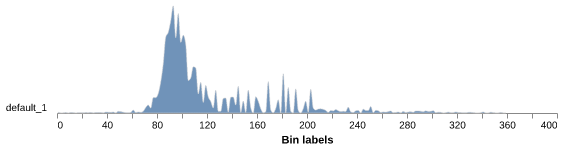
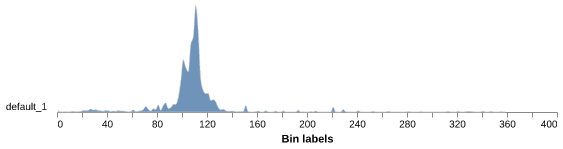
clean algo for charle

diff --git a/transformation/Transformation.py b/transformation/Transformation.py
@@ -6,7 +6,7 @@ import plantcv as pcv2
 import os
 import matplotlib.pyplot as plt
 import seaborn as sns
-
+from matplotlib import image as mplimg
 
 def parse_argument() -> str:
 
@@ -150,10 +150,11 @@ def display_transformations(image_path, dest, options):
 
     image, path, name = pcv.readimage(image_path)
     pcv.plot_image(image)
-    s = pcv.rgb2gray_hsv(rgb_img=image, channel='s')
+    s = pcv.rgb2gray_lab(rgb_img=image, channel='l')
     #pcv.plot_image(s)
 
     s_thresh = pcv.threshold.binary(gray_img=s, threshold=80, object_type='light')
+    pcv.plot_image(s_thresh)
 
 
     s_mblur = pcv.median_blur(gray_img=s_thresh, ksize=5)
@@ -164,57 +165,65 @@ def display_transformations(image_path, dest, options):
     b = pcv.rgb2gray_lab(rgb_img=image, channel='b')
     #pcv.plot_image(b)
 
+    value_threshold = determine_threshold(b)
     print("Value", determine_threshold(b))
-    pcv.plot_image(pcv.threshold.binary(gray_img=b, threshold=116,object_type='light'))
-    b_thresh=pcv.threshold.binary(gray_img=b, threshold=116,object_type='light')
-    bs = pcv.logical_or(bin_img1=s_mblur, bin_img2=b_thresh)
-    #pcv.plot_image(bs)
+    # pcv.plot_image(pcv.threshold.binary(gray_img=b, threshold=116,object_type='light'))
+    b_thresh=pcv.threshold.binary(gray_img=b, threshold=value_threshold,object_type='light')
+
 
     masked = pcv.apply_mask(img=image, mask=b_thresh, mask_color='white')
     print("masked")
     pcv.plot_image(masked)
 
-    masked_a = pcv.rgb2gray_lab(rgb_img=masked, channel='a')
-    masked_b = pcv.rgb2gray_lab(rgb_img=masked, channel='b')
+    # masked_a = pcv.rgb2gray_lab(rgb_img=masked, channel='a')
+    # masked_b = pcv.rgb2gray_lab(rgb_img=masked, channel='b')
 
     #pcv.plot_image(masked_a)
     #pcv.plot_image(masked_b)
 
-    maskeda_thresh = pcv.threshold.binary(gray_img=masked_a, threshold=115, object_type='dark')
-    maskeda_thresh1 = pcv.threshold.binary(gray_img=masked_a, threshold=135, object_type='light')
-    maskedb_thresh = pcv.threshold.binary(gray_img=masked_b, threshold=116, object_type='light')
+    # maskeda_thresh = pcv.threshold.binary(gray_img=masked_a, threshold=115, object_type='dark')
+    # maskeda_thresh1 = pcv.threshold.binary(gray_img=masked_a, threshold=135, object_type='light')
+    # maskedb_thresh = pcv.threshold.binary(gray_img=masked_b, threshold=116, object_type='light')
 
     #pcv.plot_image(maskeda_thresh)
     #pcv.plot_image(maskeda_thresh1)
     #pcv.plot_image(maskedb_thresh)
 
-    ab1 = pcv.logical_or(bin_img1=maskeda_thresh, bin_img2=maskedb_thresh)
-    ab = pcv.logical_or(bin_img1=maskeda_thresh1, bin_img2=ab1)
+    # ab1 = pcv.logical_or(bin_img1=maskeda_thresh, bin_img2=maskedb_thresh)
+    # ab = pcv.logical_or(bin_img1=maskeda_thresh1, bin_img2=ab1)
 
     # pcv.plot_image(ab1)
     # pcv.plot_image(ab)
 
-    opened_ab = pcv.opening(gray_img=ab)
-    #pcv.plot_image(opened_ab)
+    # opened_ab = pcv.opening(gray_img=ab)
+    # #pcv.plot_image(opened_ab)
 
-    xor_img = pcv.logical_xor(bin_img1=maskeda_thresh, bin_img2=maskedb_thresh)
+    # xor_img = pcv.logical_xor(bin_img1=maskeda_thresh, bin_img2=maskedb_thresh)
     #pcv.plot_image(xor_img)
 
-    ab_fill = pcv.fill(bin_img=b_thresh, size=200)
+    b_fill = pcv.fill(bin_img=b_thresh, size=200)
     print("fill")
-    pcv.plot_image(ab_fill)
+    #pcv.plot_image(b_fill)
 
     #pcv.plot_image(ab_fill)
-    closed_ab = pcv.closing(gray_img=ab_fill)
+    # closed_ab = pcv.closing(gray_img=ab_fill)
     #pcv.plot_image(gray_img=ab_fill)
-    masked2= pcv.apply_mask(img=masked, mask=ab_fill, mask_color='white')
-    pcv.plot_image(masked2)
+    masked2= pcv.apply_mask(img=masked, mask=b_fill, mask_color='white')
+    #pcv.plot_image(masked2)
 
     #obj_hierachy= pcv.find_objects(img=masked2, mask=ab_fill)
     #roi1, roi_hierarchy = pcv.roi.rectangle(img=masked2, x=(image.shape[0] * 0.1), y=(image.shape[1] * 0.1), w=(image.shape[0] * 0.9), h=(image.shape[1] * 0.9))
     roi= pcv.roi.rectangle(img=masked2, x=0,y=0, w=image.shape[0], h=image.shape[1])
-    kept_mask = pcv.roi.filter(mask=ab_fill, roi=roi, roi_type='partial')
+    kept_mask = pcv.roi.filter(mask=b_fill, roi=roi, roi_type='partial')
+    
+    print("kept")
     pcv.plot_image(kept_mask)
+
+    #device, obj, mask = pcv.object_composition(image, roi_objects, hierarchy, device, debug=True)
+
+    labelo, obj = pcv.create_labels(mask=kept_mask)
+
+
     analysis_image = pcv.analyze.size(img=image, labeled_mask=kept_mask)
     print("analysis")
     pcv.plot_image(analysis_image)
@@ -228,22 +237,19 @@ def display_transformations(image_path, dest, options):
 
     # Create a new array, filled with the 2 first dimensions of image
 
-    print(ab.shape)
     
     # arr = np.zeros((ab.shape[0], ab.shape[1]), dtype=np.uint8)
     # for i in range(ab.shape[0]):
     #     for j in range(ab.shape[1]):
     #         arr[i][j] = ab[i][j][0]
     #print("SAHPE :", arr.shape)
+    plt.imshow(mplimg.imread(image_path))
+    top_x, bottom_x, center_v_x = pcv.homology.x_axis_pseudolandmarks(img=image, mask=b_fill, label='default')
+    # print("topx", top_x)
+    # print("topy", bottom_x)
+    # print("center", center_v_x)
 
-    img, _, _ = pcv.readimage(image_path)
-
-    top_x, bottom_x, center_v_x = pcv.homology.x_axis_pseudolandmarks(img=image, mask=ab_fill, label='default')
-    print("topx", top_x)
-    print("topy", bottom_x)
-    print("center", center_v_x)
-
-    plt.imshow(image)
+    # plt.imshow(image)
 
     for i in range(len(top_x)):
         plt.scatter(top_x[i][0][0], top_x[i][0][1], c='r', s=10)
